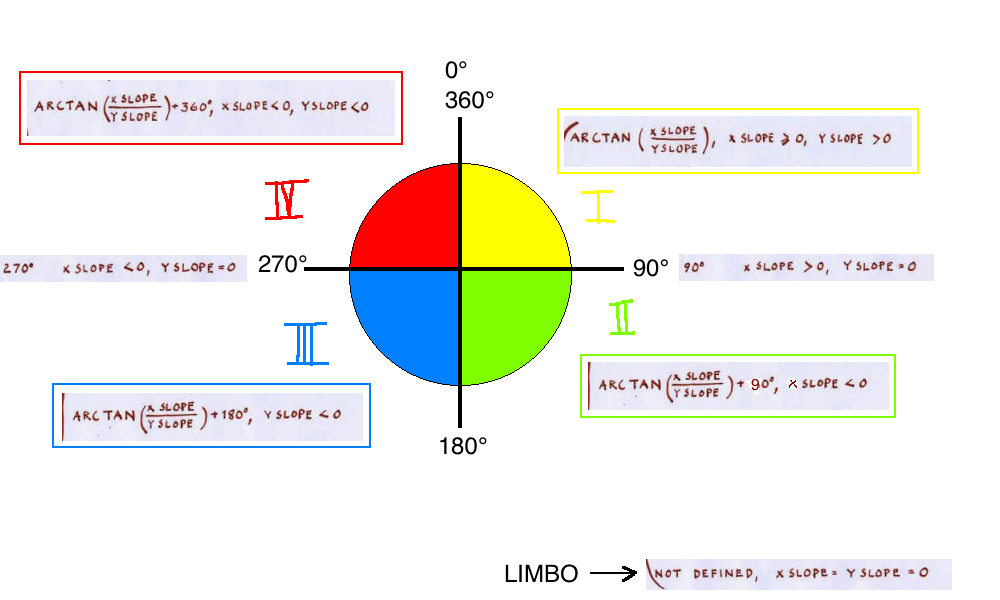
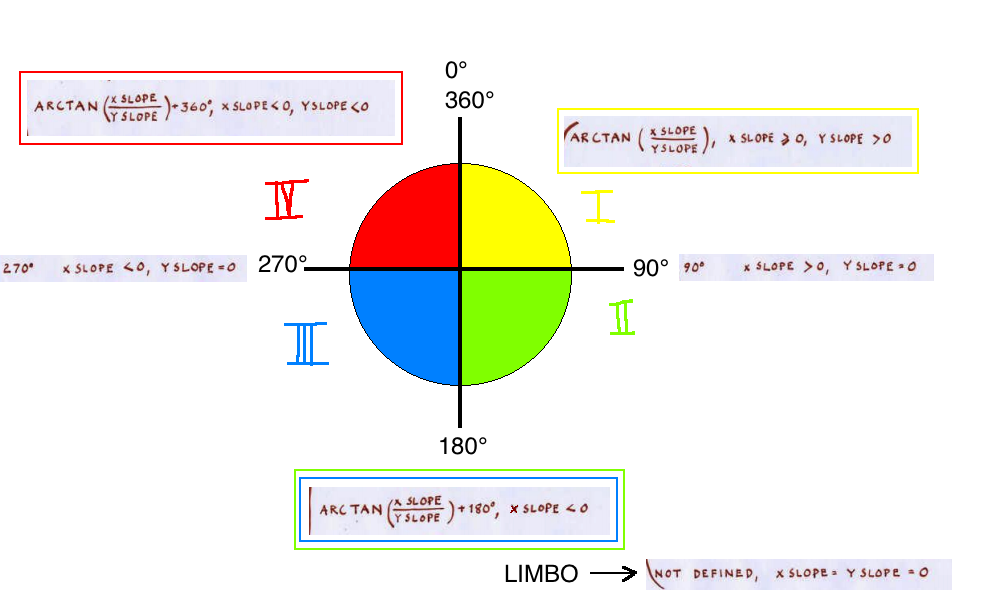
update aspect calculation

Changed region(s): [[0.279, 0.78, 0.62, 0.93], [0.589, 0.57, 0.899, 0.72], [0.062, 0.63, 0.372, 0.75]]

diff --git a/TIN_facets.py b/TIN_facets.py
@@ -33,11 +33,10 @@ else:
 
 ###### ASPECT #2 ######
 # a different (correct?) way to calculate the aspect of a facet
-# done by consulting the glorious ASPECT QUADRANT
-aspect_new = math.atan(b1 / b2) + 90
+# done by consulting the glorious ASPECT QUADRANT (attention, currently buggy!)
+# check this: https://answers.yahoo.com/question/index?qid=20070602085404AAPmPow
+aspect_new = math.atan(b1 / b2) + 180
 
 print("slope of facet in degrees: {0}".format(slope_degrees))
 print("aspect of facet in compass direction: {0}".format(aspect_compass))
-print("aspect of facet in compass direction, new calculation: {0}".format(aspect_compass))
-
-# hm... these results look suspiciously the same!
+print("aspect of facet in compass direction, new calculation: {0}".format(aspect_new))
